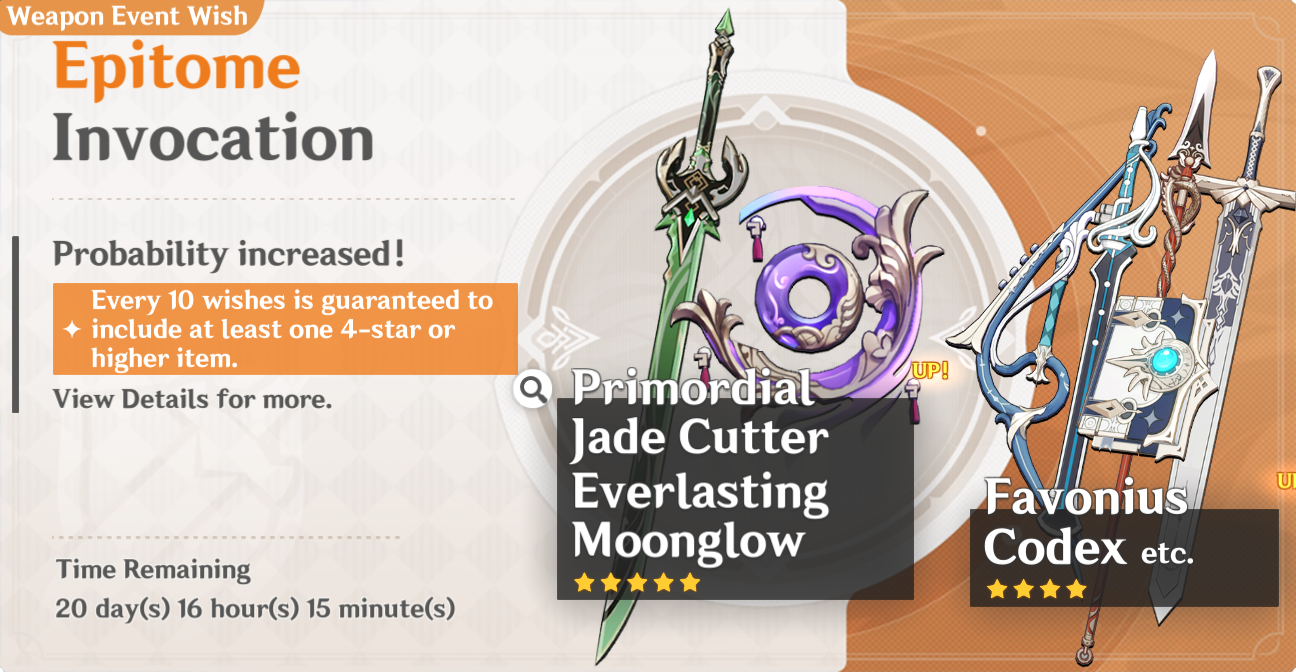
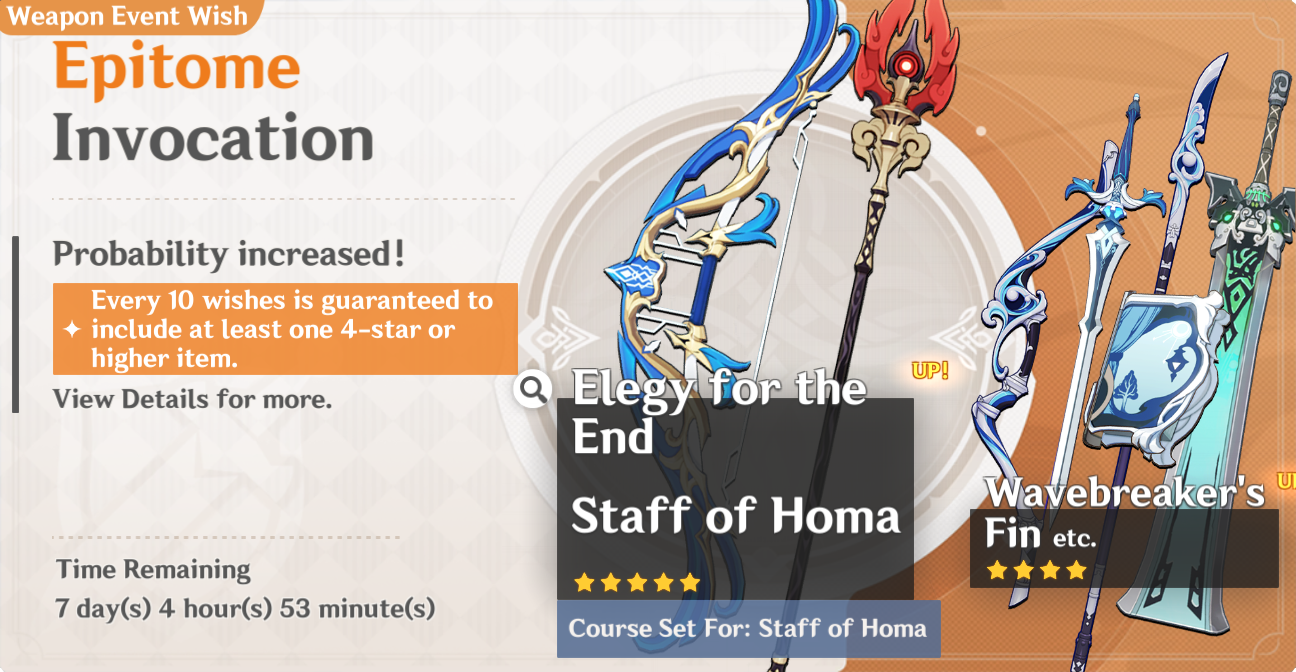
Added assets for 2.2.0

Changed region(s): [[0.4321, 0.0, 1.0, 1.0], [0.0309, 0.875, 0.3704, 0.9375]]

diff --git a/utils/fs-mod.js b/utils/fs-mod.js
@@ -10,42 +10,26 @@ const run = async () => {
   try {
     const items = [...weapons, ...characters]
     let itemList = `
-    Weapon
-     Everlasting Moonglow
-    Weapon
-     Primordial Jade Cutter
-    Weapon
-    Amos Bow
-    Weapon
-    Skyward Harp
-    Weapon
-    Lost Prayer to the Sacred Winds
-    Weapon
-    Skyward Atlas
-    Weapon
-    Primordial Jade Winged-Spear
-    Weapon
-    Skyward Spine
-    Weapon
-    Wolf's Gravestone
-    Weapon
-    Skyward Pride
-    Weapon
-    Skyward Blade
-    Weapon
-    Aquila Favonia
-    Weapon
-     The Stringless
-    Weapon
-     Favonius Codex
-    Weapon
-     Dragon's Bane
-    Weapon
-     Favonius Greatsword
-    Weapon
-     The Flute
     Character
-    Sayu
+     Hu Tao
+    Character
+    Keqing
+    Character
+    Mona
+    Character
+    Qiqi
+    Character
+    Diluc
+    Character
+    Jean
+    Character
+     Sayu
+    Character
+     Thoma
+    Character
+     Diona
+    Character
+    Kujou Sara
     Character
     Yanfei
     Character
@@ -54,8 +38,6 @@ const run = async () => {
     Xinyan
     Character
     Sucrose
-    Character
-    Diona
     Character
     Chongyun
     Character
@@ -81,6 +63,8 @@ const run = async () => {
     Weapon
     Sacrificial Bow
     Weapon
+    The Stringless
+    Weapon
     Favonius Warbow
     Weapon
     Eye of Perception
@@ -89,7 +73,11 @@ const run = async () => {
     Weapon
     The Widsith
     Weapon
+    Favonius Codex
+    Weapon
     Favonius Lance
+    Weapon
+    Dragon's Bane
     Weapon
     Rainslasher
     Weapon
@@ -97,9 +85,13 @@ const run = async () => {
     Weapon
     The Bell
     Weapon
+    Favonius Greatsword
+    Weapon
     Lions Roar
     Weapon
     Sacrificial Sword
+    Weapon
+    The Flute
     Weapon
     Favonius Sword
     Weapon
@@ -153,8 +145,8 @@ const run = async () => {
       return item
     })
     // let epitome = require('../src/data/wanderlust-invocation.json')
-    const path = p.join(__dirname, "../src/data/epitome-invocation.json");
-    // const path = p.join(__dirname, "../src/data/drifting-luminescence.json");
+    // const path = p.join(__dirname, "../src/data/epitome-invocation.json");
+    const path = p.join(__dirname, "../src/data/moment-of-bloom-2.json");
     // epitome.forEach(item => {
     //   if(item.hasOwnProperty('class')) {
     //     if(!item.hasOwnProperty('type')) {
@@ -170,7 +162,7 @@ const run = async () => {
   }
 }
 
-// run()
+run()
 
 const validateImages = async () => {
   let invitation = require('../src/data/drifting-luminescence.json')
